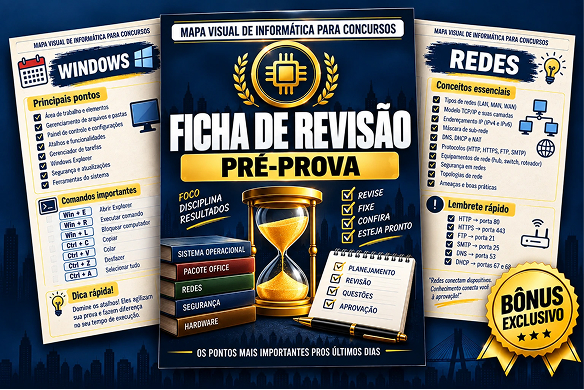
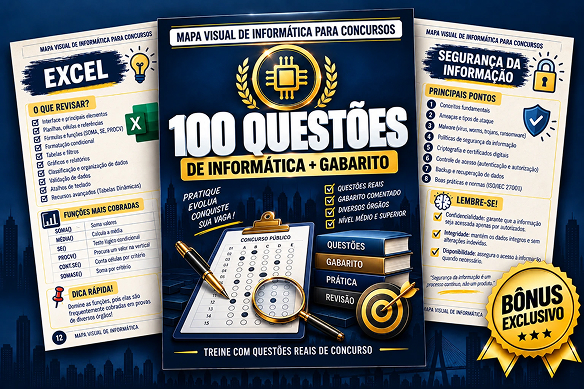
v3

diff --git a/script.js b/script.js
@@ -1,44 +1,43 @@
 (function(){
   // ---------- data for entregaveis carousel ----------
   var mapas = [
-    "Microcomputador: Componentes e Periféricos","Hardware e Periféricos","Dispositivos de Entrada e Saída",
-    "Impressoras e Periféricos","Sistemas de Numeração e Unidades de Medida","Sistema Operacional Windows",
-    "Sistema Operacional Linux","Editor de Texto (Word)","Formatação e Estilos no Word",
-    "Planilhas Eletrônicas (Excel)","Fórmulas e Funções no Excel","Gráficos e Tabelas Dinâmicas",
-    "Apresentações (PowerPoint)","LibreOffice Writer","LibreOffice Calc","LibreOffice Impress",
-    "Redes de Computadores","Modelo OSI e TCP/IP","Topologias de Rede","Internet e Intranet",
-    "Navegadores de Internet","Correio Eletrônico","Protocolos de E-mail (POP3, IMAP, SMTP)",
-    "Computação em Nuvem","Armazenamento em Nuvem","Segurança da Informação","Princípios CID",
-    "Malwares e Pragas Virtuais","Vírus, Worms e Trojans","Ransomware e Spyware",
-    "Firewall e Criptografia","Certificado e Assinatura Digital","Backup e Recuperação de Dados",
-    "Tipos de Backup","Banco de Dados — Conceitos","Modelo Relacional","Atalhos — Windows",
-    "Atalhos — Word e Excel","LGPD — Noções Gerais","Governança de TI",
-    "Compressão de Arquivos (ZIP/RAR)","Extensões de Arquivo","Manutenção Preventiva de Computadores",
-    "Redes Sociais e Ferramentas Colaborativas","Aplicativos de Mensagens e Videoconferência",
-    "Atualizações e Patches de Segurança","Autenticação e Senhas Seguras","Phishing e Engenharia Social",
-    "Termos e Conceitos Gerais de Informática","Tendências em TI para Concursos"
+    {img:"e1.jpg", num:"02", modulo:"Hardware, Software e Periféricos", t:"Hierarquia e Tipos de Memória"},
+    {img:"e2.jpg", num:"05", modulo:"Hardware, Software e Periféricos", t:"Periféricos Híbridos"},
+    {img:"e3.jpg", num:"13", modulo:"Segurança da Informação", t:"Criptografia"},
+    {img:"e4.jpg", num:"16", modulo:"Redes, Internet e Nuvem", t:"Abrangência de Rede: PAN x LAN x MAN x WAN"},
+    {img:"e5.jpg", num:"18", modulo:"Redes, Internet e Nuvem", t:"Ambientes de Rede: Internet x Intranet x Extranet"},
+    {img:"e6.jpg", num:"19", modulo:"Redes, Internet e Nuvem", t:"Equipamentos de Rede: Hub x Switch x Roteador x Modem"},
+    {img:"e7.jpg", num:"21", modulo:"Redes, Internet e Nuvem", t:"Protocolos de Navegação e Arquivos"}
   ];
   var bonus = [
-    {t:"100 Questões + Gabarito", i:"📝"},
-    {t:"Checklist de Informática", i:"☑"},
-    {t:"Ficha de Revisão Pré-Prova", i:"⏱"},
-    {t:"Atalhos Essenciais", i:"⌨"}
+    {img:"BONUS 1.jpg", t:"100 Questões + Gabarito"},
+    {img:"BONUS 2.jpg", t:"Checklist de Informática"},
+    {img:"BONUS 3.jpg", t:"Ficha de Revisão Pré-Prova"},
+    {img:"BONUS 4.jpg", t:"Atalhos Essenciais"}
   ];
   var track = document.getElementById('carTrack');
   var frag = document.createDocumentFragment();
-  mapas.forEach(function(m, idx){
+  mapas.forEach(function(m){
     var el = document.createElement('div');
     el.className = 'cslide';
-    el.innerHTML = '<div class="cicon">🗂</div><span class="cnum">Mapa '+String(idx+1).padStart(2,'0')+'</span><h4>'+m+'</h4>';
+    el.innerHTML =
+      '<div class="cslide-media"><img src="public/'+encodeURIComponent(m.img)+'" alt="Mapa '+m.num+' — '+m.t+'" loading="lazy"></div>'+
+      '<div class="cslide-body"><span class="cnum">Mapa '+m.num+' · '+m.modulo+'</span><h4>'+m.t+'</h4></div>';
     frag.appendChild(el);
   });
   bonus.forEach(function(b, idx){
     var el = document.createElement('div');
     el.className = 'cslide is-bonus';
-    el.innerHTML = '<div class="cicon">'+b.i+'</div><span class="cnum">Bônus '+(idx+1)+'</span><h4>'+b.t+'</h4>';
+    el.innerHTML =
+      '<div class="cslide-media"><img src="public/'+encodeURIComponent(b.img)+'" alt="'+b.t+'" loading="lazy"></div>'+
+      '<div class="cslide-body"><span class="cnum">Bônus '+(idx+1)+'</span><h4>'+b.t+'</h4></div>';
     frag.appendChild(el);
   });
+  var moreEl = document.createElement('div');
+  moreEl.className = 'cslide is-more';
+  moreEl.innerHTML = '<span class="more-num">+43</span><h4>mapas visuais e mais temas dentro do material completo</h4>';
   track.appendChild(frag);
+  track.appendChild(moreEl);
 
   function dragScroll(el){
     var isDown = false, startX, scrollLeft, moved = false;

diff --git a/style.css b/style.css
@@ -268,17 +268,24 @@ mark.pegadinha{
 .carousel-track::-webkit-scrollbar{height:6px;}
 .carousel-track::-webkit-scrollbar-thumb{background:var(--line); border-radius:4px;}
 .cslide{
-  flex:none; width:210px; scroll-snap-align:start;
-  background:var(--card); border:1px solid var(--line); border-radius:12px;
-  padding:16px; display:flex; flex-direction:column; gap:10px;
-  user-select:none;
+  flex:none; width:190px; scroll-snap-align:start;
+  background:var(--card); border:1px solid var(--line); border-radius:14px;
+  overflow:hidden; display:flex; flex-direction:column;
+  user-select:none; box-shadow:var(--shadow-sm);
 }
-.cslide .cnum{font-family:'IBM Plex Mono',monospace; font-size:.65rem; color:var(--ink-soft);}
-.cslide .cicon{width:34px; height:34px; border-radius:8px; background:var(--paper-deep); display:flex; align-items:center; justify-content:center; font-size:1rem;}
-.cslide h4{font-family:'Fraunces',serif; font-size:.95rem; font-weight:600; margin:0;}
-.cslide.is-bonus{background:linear-gradient(160deg,var(--accent) 0%, var(--accent-deep) 100%); border-color:transparent; color:var(--accent-ink);}
-.cslide.is-bonus .cicon{background:rgba(255,255,255,.35);}
-.cslide.is-bonus .cnum{color:var(--accent-ink); opacity:.75;}
+.cslide-media{width:100%; aspect-ratio:525/742; overflow:hidden; background:var(--paper-deep);}
+.cslide-media img{width:100%; height:100%; object-fit:cover; display:block;}
+.cslide-body{padding:12px 14px 16px; display:flex; flex-direction:column; gap:6px;}
+.cslide .cnum{font-family:'IBM Plex Mono',monospace; font-size:.62rem; color:var(--ink-soft); line-height:1.3;}
+.cslide h4{font-family:'Fraunces',serif; font-size:.88rem; font-weight:600; margin:0; line-height:1.3;}
+.cslide.is-bonus .cslide-media{aspect-ratio:584/390;}
+.cslide.is-more{
+  align-items:center; justify-content:center; text-align:center; gap:10px;
+  padding:20px; background:linear-gradient(160deg,var(--accent) 0%, var(--accent-deep) 100%);
+  border-color:transparent; color:var(--accent-ink);
+}
+.cslide.is-more .more-num{font-family:'Fraunces',serif; font-weight:800; font-size:2.2rem;}
+.cslide.is-more h4{font-size:.85rem; font-weight:600; opacity:.9;}
 .carousel-cta{margin-top:34px; text-align:center;}
 
 /* ---------- PACOTE ---------- */

diff --git a/index.html b/index.html
@@ -440,9 +440,9 @@
     </div>
     <div class="bonus-grid">
       <div class="bonus-card">
+        <div class="bonus-media"><img src="public/BONUS%201.jpg" alt="100 Questões de Informática + Gabarito"></div>
         <div class="bonus-top">
           <div><span class="bonus-tag">Bônus 1</span><h3>100 Questões de Informática + Gabarito</h3></div>
-          <div class="bonus-icon">📝</div>
         </div>
         <p>Pra quem revisa mas não sabe se aprendeu de verdade. Testa na prática o que foi revisado nos mapas, com gabarito pra conferir na hora.</p>
         <div class="bonus-price"><span class="old">de R$27</span><span class="free">GRÁTIS HOJE</span></div>
